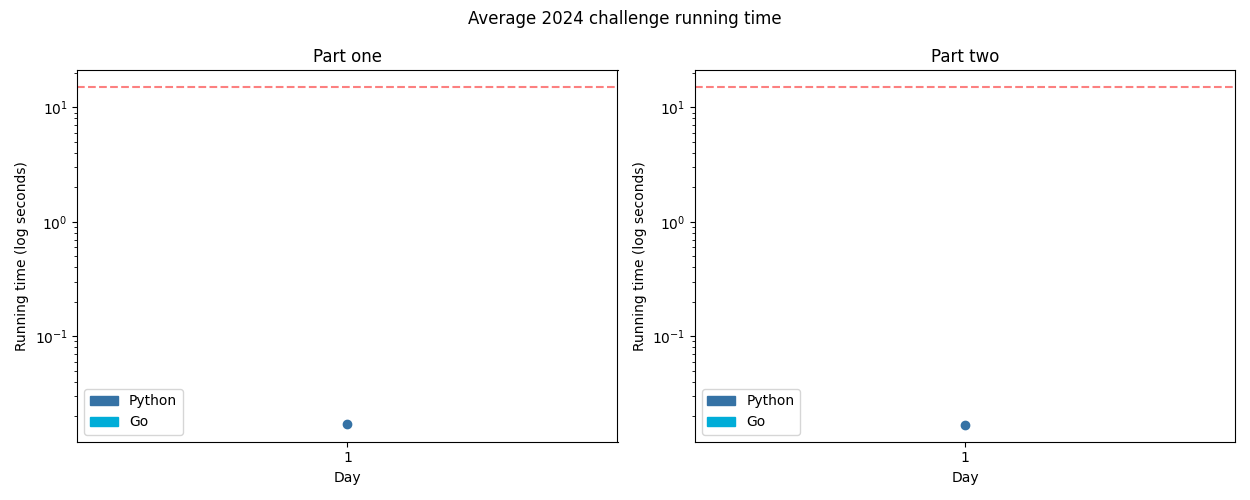
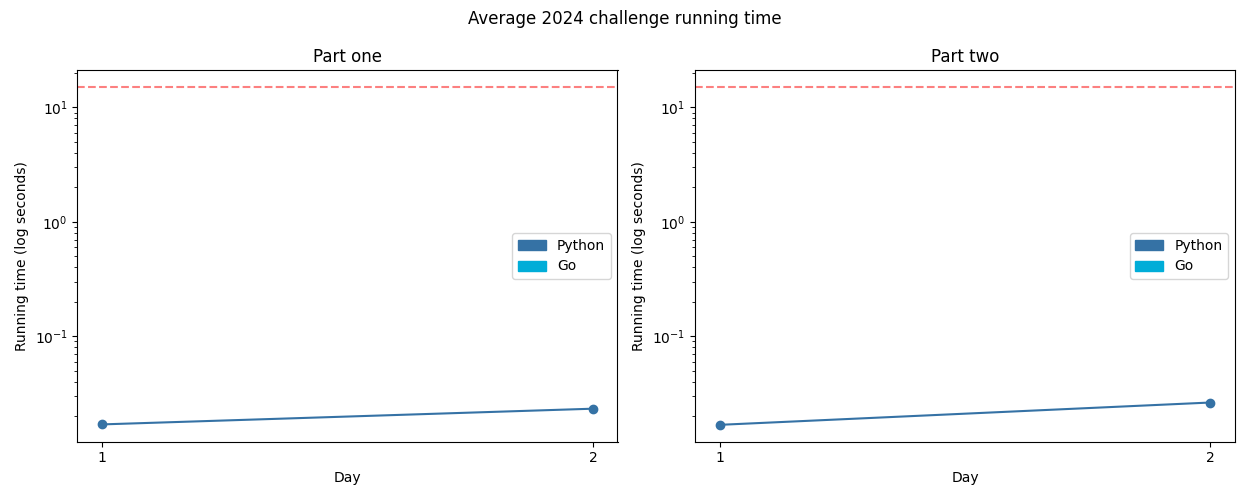
2024.02

diff --git a/challenges/2024/02-redNosedReports/main.py b/challenges/2024/02-redNosedReports/main.py
@@ -1,0 +1,87 @@
+import sys
+from typing import Optional
+
+
+def parse(instr: str) -> list[list[int]]:
+    res = []
+    for line in instr.splitlines():
+        res.append(list(map(int, line.split(" "))))
+    return res
+
+
+def test_pair(
+    a: int, b: int, sequence_is_negative: Optional[bool]
+) -> tuple[bool, bool]:
+    diff = b - a
+    this_is_negative = diff < 0
+
+    if sequence_is_negative is not None and this_is_negative != sequence_is_negative:
+        return False, this_is_negative
+
+    return 1 <= abs(diff) <= 3, this_is_negative
+
+
+def test_report(rep: list[int]) -> bool:
+    should_be_negative: Optional[bool] = None
+    ok = False
+
+    for i, v in enumerate(rep[:-1]):
+        w = rep[i + 1]
+
+        ok, neg = test_pair(v, w, should_be_negative)
+        if should_be_negative is None:
+            should_be_negative = neg
+
+        if not ok:
+            break
+
+    return ok
+
+
+def one(instr: str):
+    reports = parse(instr)
+
+    n = 0
+    for rep in reports:
+        if test_report(rep):
+            n += 1
+
+    return n
+
+
+def two(instr: str):
+    reports = parse(instr)
+
+    n = 0
+    for rep in reports:
+        if test_report(rep):
+            n += 1
+        else:
+            ok = False
+            for i in range(len(rep)):
+                r = rep.copy()
+                r.pop(i)
+                if test_report(r):
+                    ok = True
+                    break
+
+            if ok:
+                n += 1
+
+    return n
+
+
+def _debug(*args, **kwargs):
+    kwargs["file"] = sys.stderr
+    print(*args, **kwargs)
+
+
+if __name__ == "__main__":
+    if len(sys.argv) < 2 or sys.argv[1] not in ["1", "2"]:
+        print("Missing day argument", file=sys.stderr)
+        sys.exit(1)
+    inp = sys.stdin.read().strip()
+    if sys.argv[1] == "1":
+        print(one(inp))
+    else:
+        print(two(inp))

diff --git a/challenges/2024/README.md b/challenges/2024/README.md
@@ -15,3 +15,4 @@ A day denoted with a star means it has a visualisation.
 | Day                                 | Status | Solutions            | Notes |
 |-------------------------------------|--------|----------------------|-------|
 | 01 - Historian Hysteria             | ★ ★   | Python               | The reading comprehension was the hardest part of this. |
+| 02 - Red-Nosed Reindeer             | ★ ★   | Python               ||

diff --git a/challenges/2024/02-redNosedReports/README.md b/challenges/2024/02-redNosedReports/README.md
@@ -1,0 +1,1 @@
+# [Day 2: Red Nosed Reports](https://adventofcode.com/2024/day/2)
